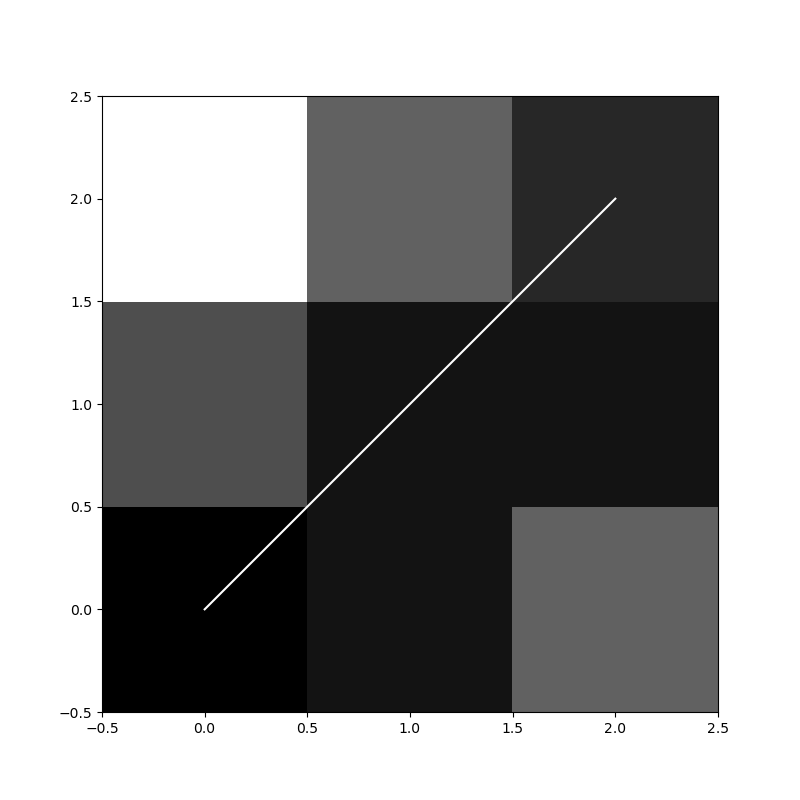
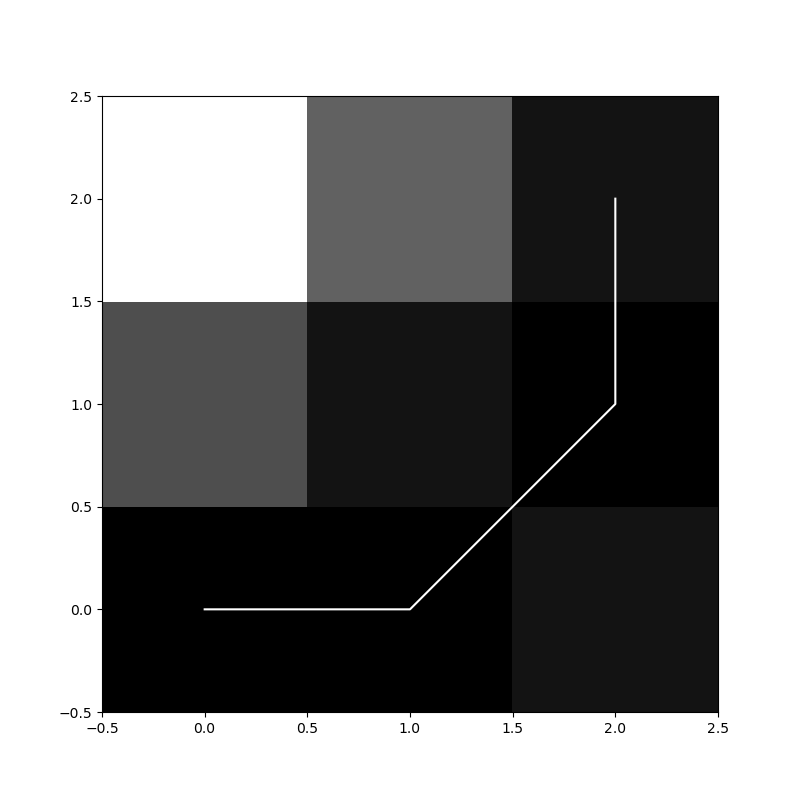
update

diff --git a/python/dtw/sample1/sample1.py b/python/dtw/sample1/sample1.py
@@ -4,7 +4,7 @@ import matplotlib.pyplot as plt
 from dtw import dtw
 
 x = [1, 2, 3]
-y = [1, 3, 4]
+y = [2, 3, 4]
 SAVE_DIR_PATH = "C:/github/sample/python/dtw/sample1/"
 
 def l2_norm(x, y): return (x - y) ** 2
@@ -24,16 +24,16 @@ print("path:", path)
 """
 dist: 2.0
 cost_matrix:
- [[0. 4. 9.]
- [1. 1. 4.]
- [4. 0. 1.]]
+[[1. 4. 9.]
+ [0. 1. 4.]
+ [1. 0. 1.]]
 
 acc_cost_matrix: 
-[[ 0.  4. 13.]
- [ 1.  1.  5.]
- [ 5.  1.  2.]]
+[[ 1.  5. 14.]
+ [ 1.  2.  6.]
+ [ 2.  1.  2.]]
  
-path: (array([0, 1, 2]), array([0, 1, 2]))
+path: (array([0, 1, 2, 2]), array([0, 0, 1, 2])))
 """
 
 
